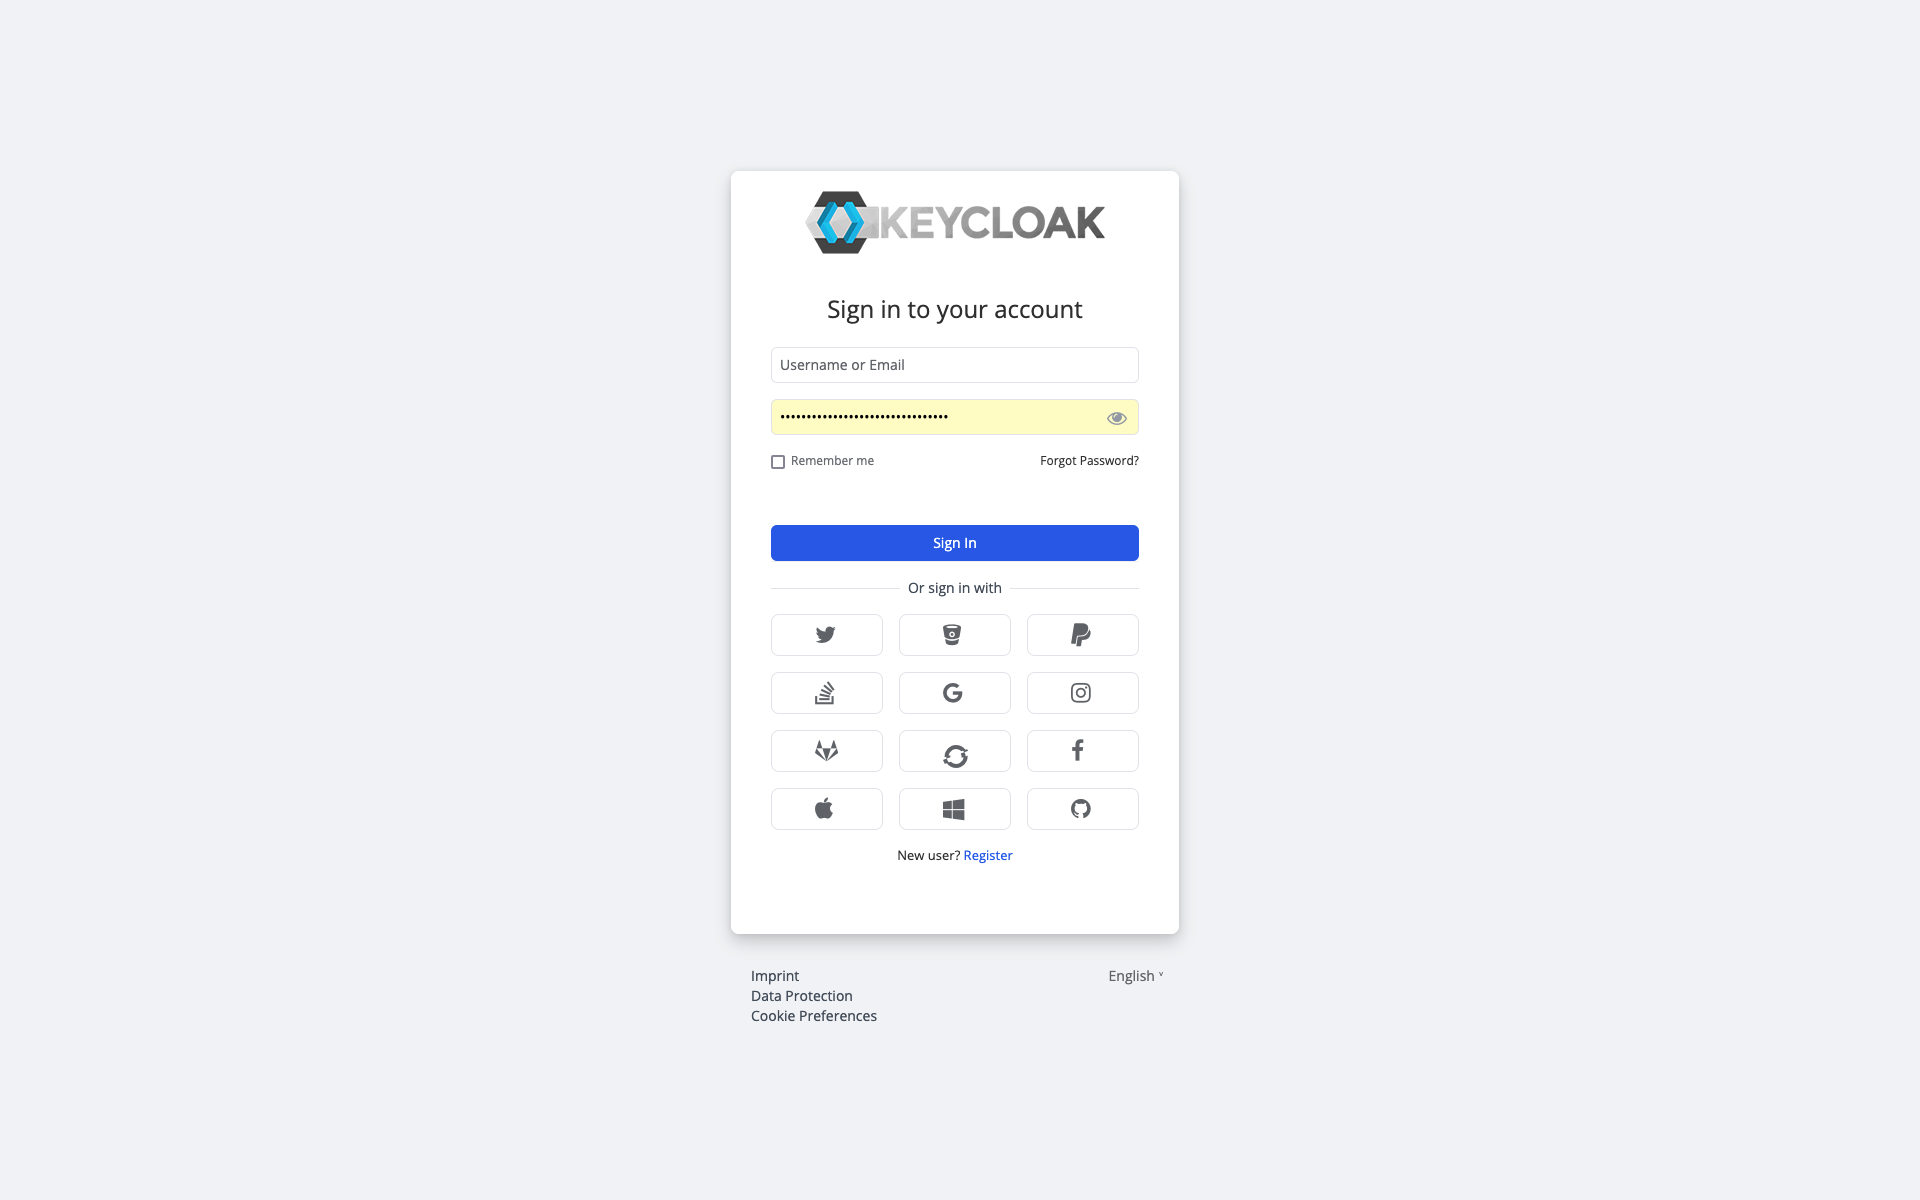
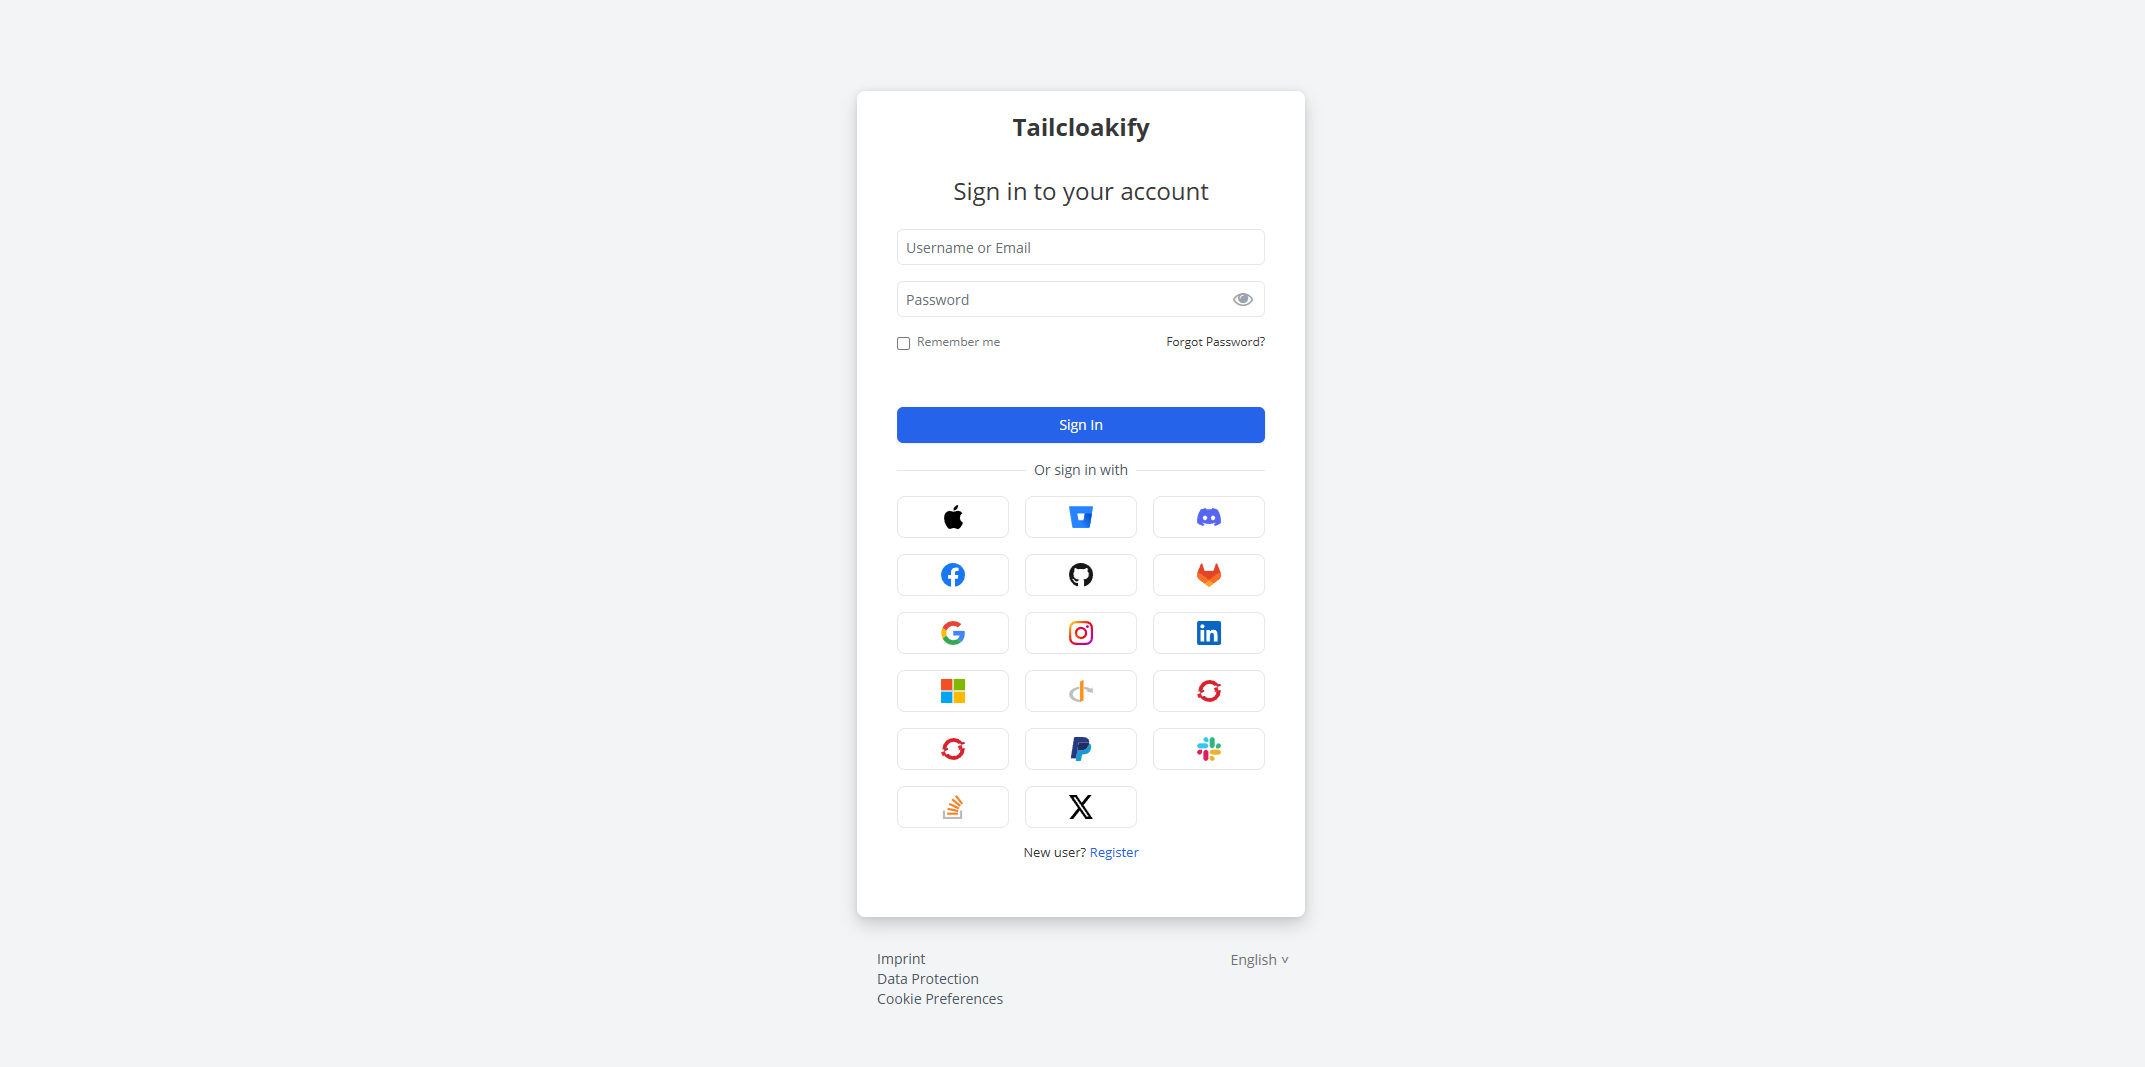
docs: update readme (#16)
* chore/login add story for splashscreen

* docs/readme include setup instruction

* Update README.md

---------

diff --git a/src/login/pages/Login.stories.tsx b/src/login/pages/Login.stories.tsx
@@ -1,5 +1,6 @@
 import type { Meta, StoryObj } from "@storybook/react";
 import { createKcPageStory } from "../KcPageStory";
+import useProviderLogos from "../useProviderLogos";
 
 const { KcPageStory } = createKcPageStory({ pageId: "login.ftl" });
 
@@ -377,6 +378,38 @@ export const WithCookieConsent: Story = {
             {...args}
             kcContext={{
                 properties: {
+                    TAILCLOAKIFY_FOOTER_ORESTBIDACOOKIECONSENT: "true"
+                }
+            }}
+        />
+    )
+};
+export const WithAllSocialProvidersFooterAndCookie_ForSplashScreen: Story = {
+    render: args => (
+        <KcPageStory
+            {...args}
+            kcContext={{
+                realm: {
+                    name: 'Tailcloakify',
+                    displayName: 'Tailcloakify',
+                    displayNameHtml: 'Tailcloakify',
+                    rememberMe: true,
+                },
+                social: {
+                    displayInfo: true,
+                    providers: Object.keys(useProviderLogos())
+                        .filter(providerId => providerId !== 'twitter')
+                        .map(providerId => ({
+                            loginUrl: providerId,
+                            alias: providerId,
+                            providerId: providerId,
+                            displayName: providerId.charAt(0).toUpperCase() + providerId.slice(1),
+                            iconClasses: `fa fa-${providerId}`
+                        }))
+                },
+                properties: {
+                    TAILCLOAKIFY_FOOTER_IMPRINT_URL: "https://google.com",
+                    TAILCLOAKIFY_FOOTER_DATAPROTECTION_URL: "https://google.com",
                     TAILCLOAKIFY_FOOTER_ORESTBIDACOOKIECONSENT: "true"
                 }
             }}

diff --git a/README.md b/README.md
@@ -3,13 +3,53 @@
     <br/>
     <br/>
 </p>
-<img src="./public/Default-Login-page.png" alt="keycloak theme config" width="1905">
+<img src="./public/Tailcloakify-login-page.png" alt="keycloak theme config" width="1905">
 
 Tailcloakify is a [Keycloak](https://github.com/keycloak/keycloak) Theme that is based on 
-[Keycloakify](https://github.com/keycloakify/keycloakify) + Vite, layered with TailwindCSS and inspired by [Keywind](https://github.com/lukin/keywind) 
+[Keycloakify](https://github.com/keycloakify/keycloakify), layered with [TailwindCSS](https://github.com/tailwindlabs/tailwindcss) and inspired by [Keywind](https://github.com/lukin/keywind) 
 UI design approach.
 
-# Quick Start
+
+# How to Use
+
+1. Place the provided JAR file in the <keycloak-home>/providers/ directory or use the example Dockerfile from this repository to add the provided JAR file into your Docker Image.
+2. Set environment variables or localization messages to customize the theme with the out of the box configuration functionalities.
+3. Restart your Keycloak server or deploy your builded docker image to your server.
+4. Log in to the Keycloak Admin Console.  
+Go to Realm Settings > Themes.  
+Select the Tailcloakify login theme from the dropdown.  
+Save your settings.
+
+## Customizing the Theme
+
+Tailcloakify provides ways of customizing your theme without the need to rebuild the theme while using a prebundled JAR file. This could include adding a background video/logo or customizing the footer behavior.
+
+## Environment variables
+
+| Name                                        | Description                                                                    |
+| ------------------------------------------- | ------------------------------------------------------------------------------ |
+| TAILCLOAKIFY_ADDITIONAL_SCRIPTS             | Use it to add other external scripts                                           |
+| TAILCLOAKIFY_BACKGROUND_LOGO_URL            | Use it to add an image of your logo                                            |
+| TAILCLOAKIFY_BACKGROUND_VIDEO_URL           | Use it to add a MP4 format background video on your register and login pages   |
+| TAILCLOAKIFY_FOOTER_IMPRINT_URL             | Use it to add an Impressum                                                     |
+| TAILCLOAKIFY_FOOTER_DATAPROTECTION_URL      | Use it to add url to your data protection document                             |
+| TAILCLOAKIFY_FOOTER_ORESTBIDACOOKIECONSENT  | Use it to integrate Orestbida cookie consent plugin                            |
+
+## Keycloak localization feature
+
+Some customizations are possible thought Keycloaks Localization System, allowing setting up different configurations for each language. You can eigher add custom localization by adding those into the keycloak server or by manualy setting them within the realm settings.
+
+| Name                     | Description                                                                        |
+| ------------------------ | ---------------------------------------------------------------------------------- |
+| footerImprintUrl         | The localized enabled alternative to env: TAILCLOAKIFY_FOOTER_IMPRINT_URL          |
+| footerDataprotectionUrl  | The localized enabled alternative to env: TAILCLOAKIFY_FOOTER_DATAPROTECTION_URL   |
+
+
+# Developer Quick Start
+
+If you want to customize the theme beyond the outlined capabilities, you can do so by forking this repository and performing manual changes yourself.
+
+Here do you find a Quick Start, how to setup your development environment:
 
 ```bash
   git clone https://github.com/ALMiG-Kompressoren-GmbH/tailcloakify
@@ -17,7 +57,7 @@ UI design approach.
   yarn install  # Or use an other package manager, just be sure to delete the yarn.lock if you use another package manager.
 ```
 
-# Testing the Theme Locally
+## Testing the Theme Locally
 
 ```bash
   npm run dev
@@ -29,29 +69,13 @@ Alternatively, to run the theme locally via Keycloak:
   npx keycloakify start-keycloak
 ```
 
-# Customizing the Theme
+Or you can preview the pages using the storybook:
 
-Tailcloakify has seamless ways of customizing your Login page. This could include adding a background video to your Login and
-Register pages or a logo. 
-
-After navigating to the `vite.config.ts` file, several environment variables have been 
-provided that ensure that you do not have to rework the code for your configuration. These environment variables are:
-
-```
-    TAILCLOAKIFY_ADDITIONAL_SCRIPTS :- Use it to add other external scripts 
-    TAILCLOAKIFY_BACKGROUND_LOGO_URL :- Use it to add an image of your logo 
-    TAILCLOAKIFY_BACKGROUND_VIDEO_URL :- Use it to add a MP4 format background video on your register and login pages
-    TAILCLOAKIFY_FOOTER_IMPRINT_URL :- Use it to add an Impressum 
-    TAILCLOAKIFY_FOOTER_DATAPROTECTION_URL :- Use it to add url to your data protection document  
-    TAILCLOAKIFY_FOOTER_ORESTBIDACOOKIECONSENT :- Use it to integrate Orestbida cookie consent plugin 
+```bash
+  npm run storybook
 ```
 
-## Docker Config
-
-Normally, you would test Keycloak and any associated custom themes by running docker. Therefore, using docker requires 
-that you build the theme into a `jar` so that Keycloak is able to recognize the custom theme.
-
-### Building the theme
+## Building the theme
 
 You need to have [Maven](https://maven.apache.org/) installed to build the theme (Maven >= 3.1.1, Java >= 7).  
 The `mvn` command must be in the $PATH.
@@ -66,45 +90,7 @@ The `mvn` command must be in the $PATH.
 
 Note that by default Keycloakify generates multiple `.jar` files for different versions of Keycloak.  
 
-### Sample Dockerfile Configs
-
-```Dockerfile
-# Use Keycloak Container
-FROM quay.io/keycloak/keycloak:26.0.7 as builder
-
-# Install custom theme
-ADD --chown=keycloak:keycloak https://github.com/ALMiG-Kompressoren-GmbH/tailcloakify/releases/download/v1.0.0/keycloak-theme-for-kc-22-to-25.jar /opt/keycloak/providers/keycloak-theme-for-kc-22-to-25.jar
-
-FROM quay.io/keycloak/keycloak:26.0.7
-
-COPY --from=builder /opt/keycloak /opt/keycloak
-WORKDIR /opt/keycloak
-
-ENV KC_HOSTNAME_STRICT=false
-ENV KC_HTTPS_PORT=8443
-ENV KC_HTTPS_PROTOCOLS=TLSv1.3,TLSv1.2
-ENV KC_HTTP_ENABLED=true
-ENV KC_HTTP_PORT=8080
-ENV KC_BOOTSTRAP_ADMIN_USERNAME=admin
-ENV KC_BOOTSTRAP_ADMIN_PASSWORD=admin
-
-ENTRYPOINT ["/opt/keycloak/bin/kc.sh", "start"]
-
-
-```
-
-### Keycloak Console Config
-
-After successfully building the theme and running docker, you can navigate to Keycloak console to set your theme. Under 
-Realm settings -> Themes, click the Login theme dropdown to access the template. Pick `Tailcloakify` then click save.
-
-<img src="./public/Keycloak-console-setting.png" alt="keycloak theme config" width="1905">
-
-# Contributing
-
-If you would like to introduce additional changes, please read the [Contributing Guidelines](CONTRIBUTING.md).
-
-# GitHub Actions
+## GitHub Actions
 
 Tailcloakify comes with a generic GitHub Actions workflow that builds the theme and publishes
 the jars [as GitHub releases artifacts](https://github.com/ALMiG-Kompressoren-GmbH/tailcloakify/releases/tag/v1.0.0).  
@@ -113,13 +99,21 @@ To release a new version **just update the `package.json` version and push**.
 To enable the workflow go to your fork of this repository on GitHub then navigate to:
 `Settings` > `Actions` > `Workflow permissions`, select `Read and write permissions`.
 
+
+# Contributing
+
+If you would like to introduce additional changes, please read the [Contributing Guidelines](CONTRIBUTING.md).
+
+
 # Code of Conduct
 Anyone who interacts with Tailcloakify in any space, including but not limited to this GitHub repository, must follow
 our [Code of Conduct](CODE_OF_CONDUCT.md).
 
+
 # License
 
 Licensed under the [MIT License](LICENSE).
+
 
 # Authors
 
